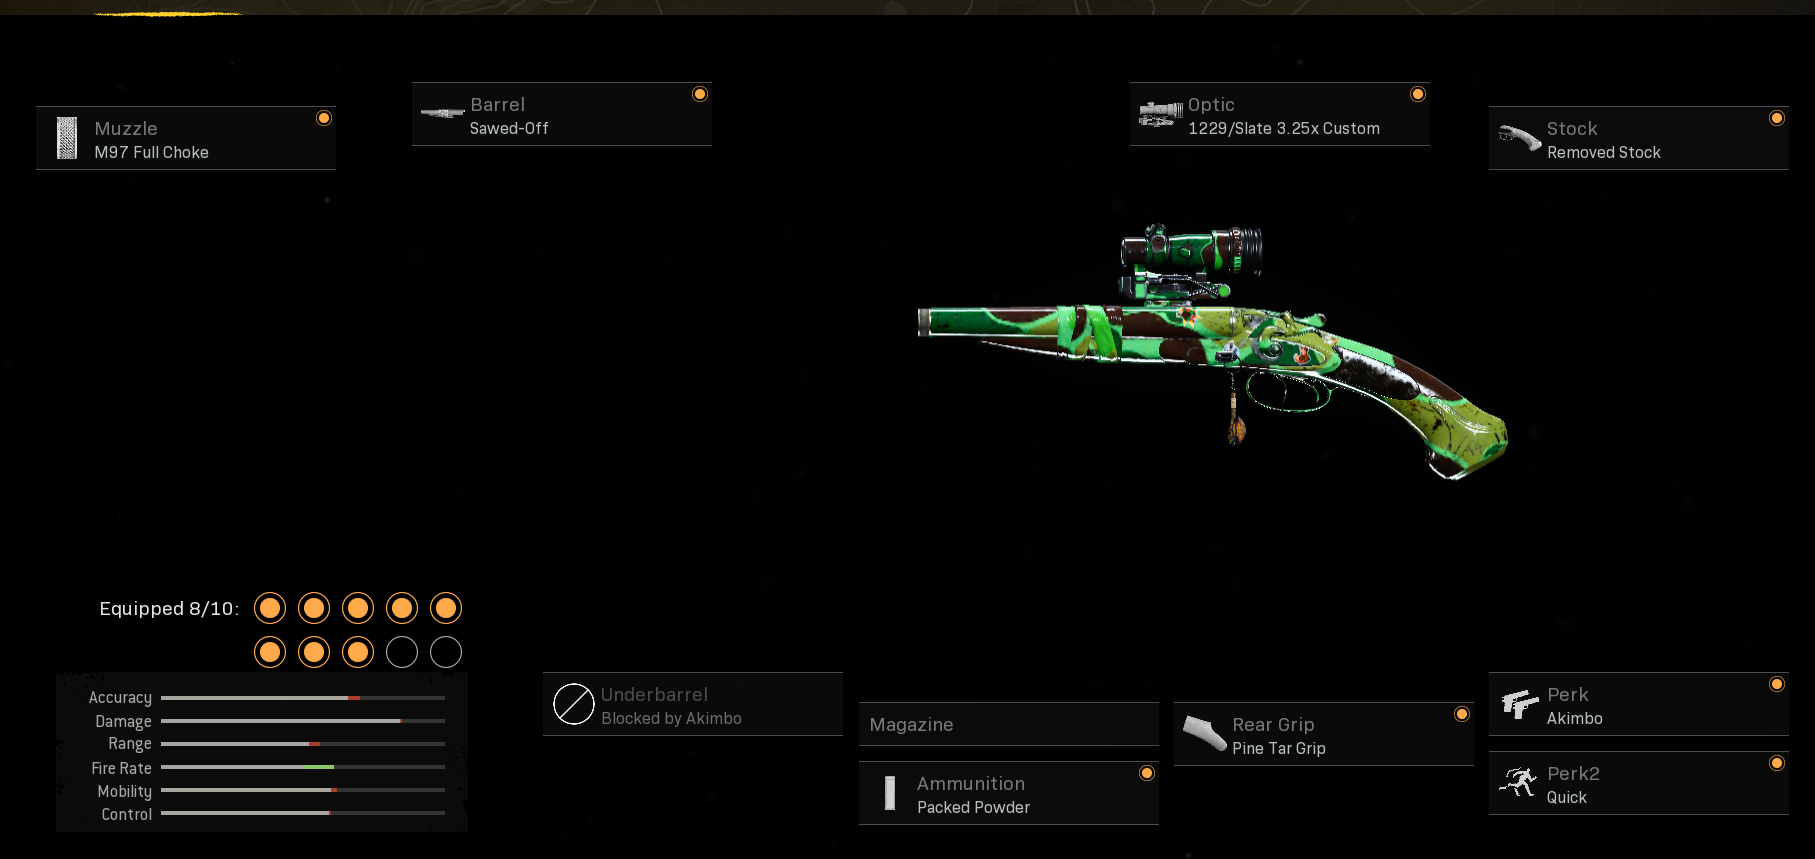
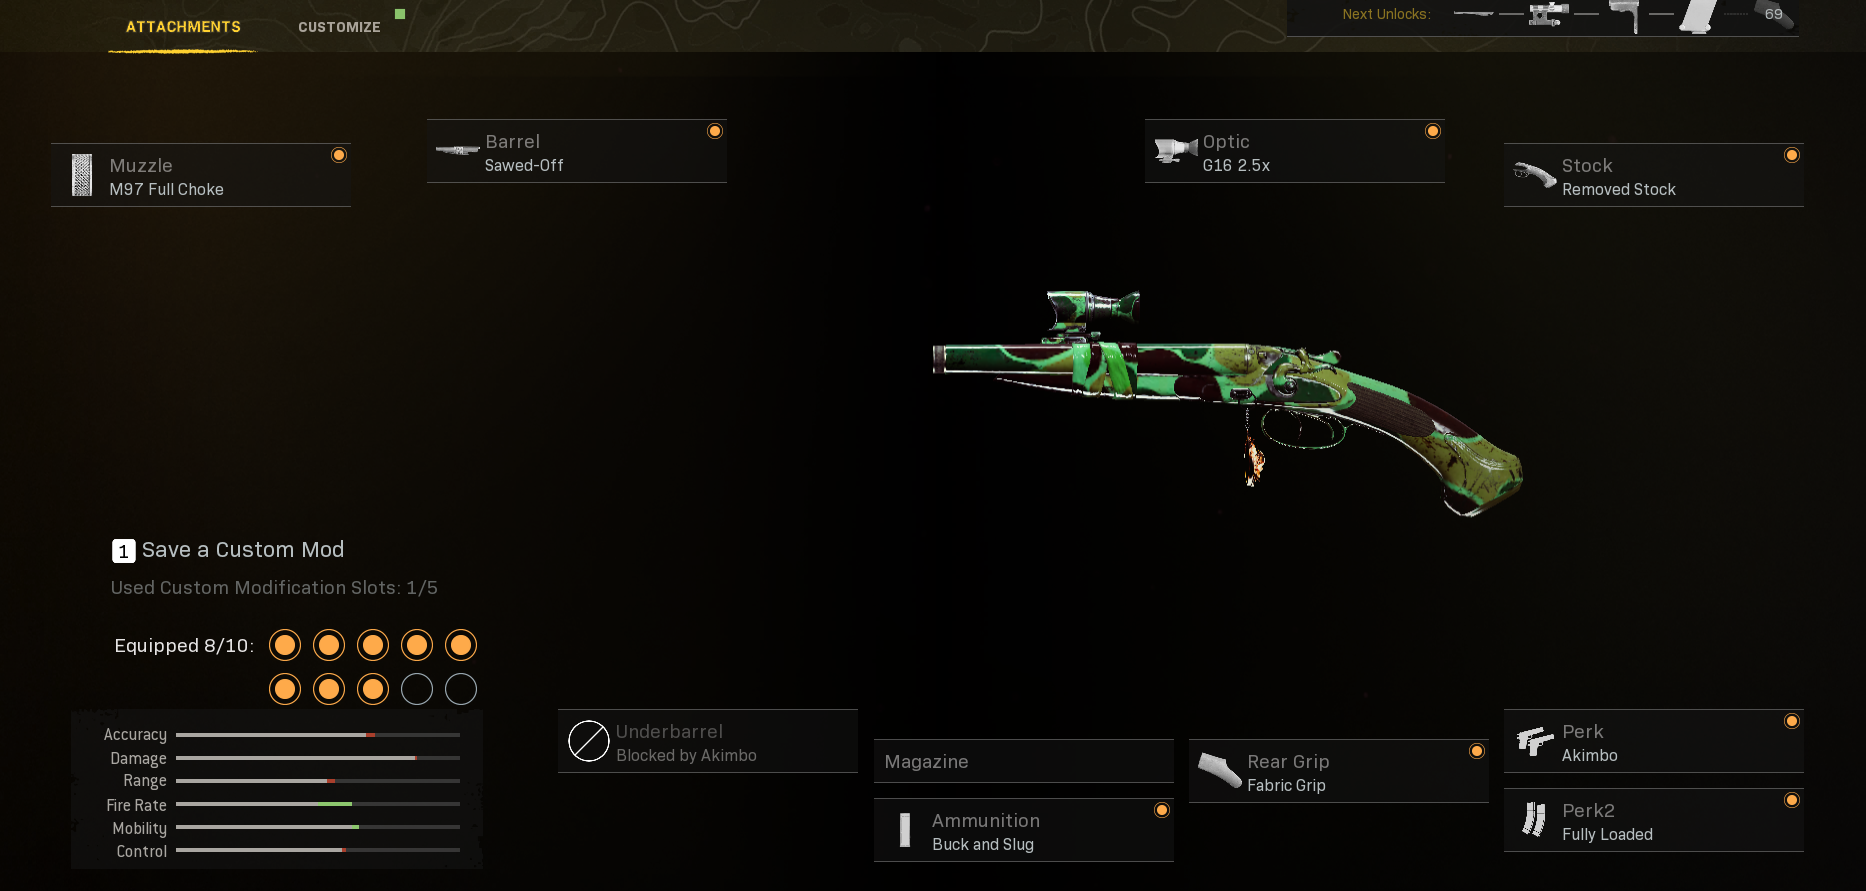
Update to guns.json
Updated guns descriptions which were taken from the game itself.
- Changed xm4 loadout and image
- Changed double barrel loadout and added it to the guns.json as it was missing
- Added amp63 to the bot
- Added Diamatti to the bot

diff --git a/commands/cw.js b/commands/cw.js
@@ -79,7 +79,7 @@ module.exports = {
                 name: "qbz",
                 value: 'AR',
                 inline: true
-            },{
+            }, {
                 name: "qbzcqb",
                 value: 'AR',
                 inline: true
@@ -116,7 +116,7 @@ module.exports = {
                 value: 'PISTOL',
                 inline: true
             }, {
-                name: "amp62",
+                name: "amp63",
                 value: 'AUTO PISTOL',
                 inline: true
             });
